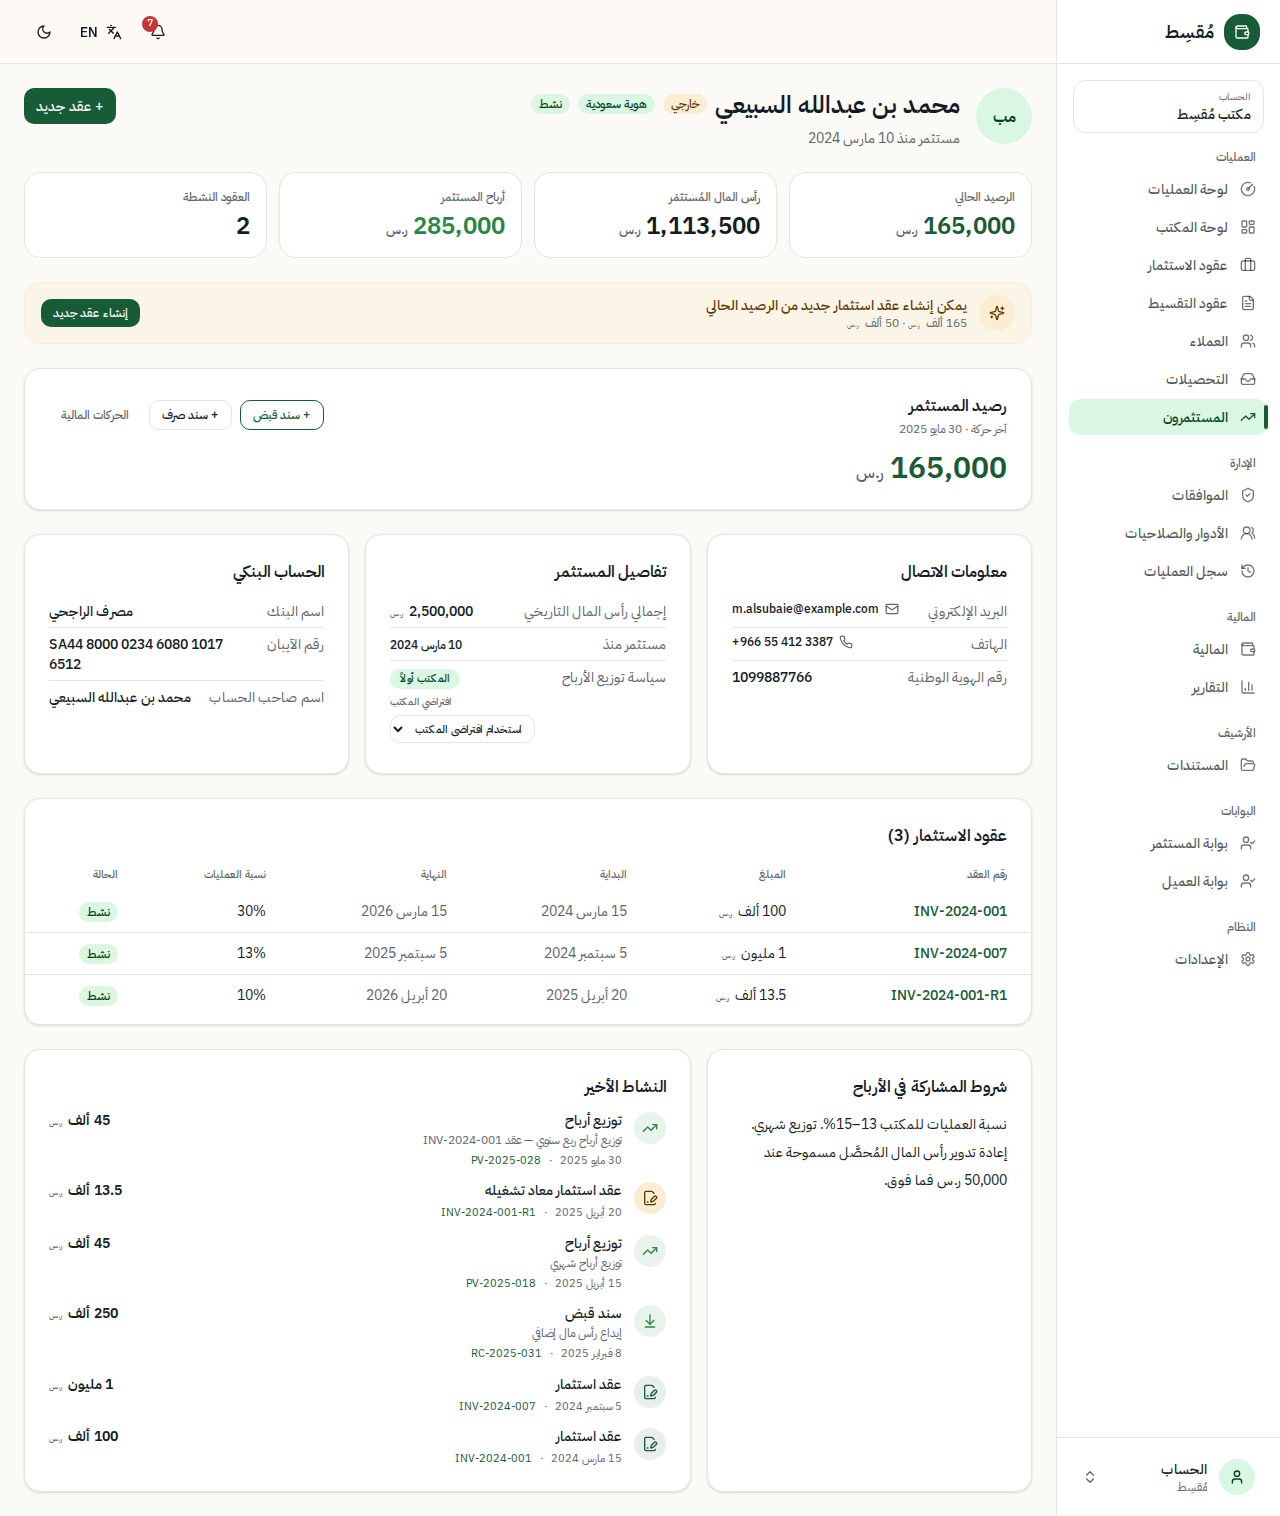
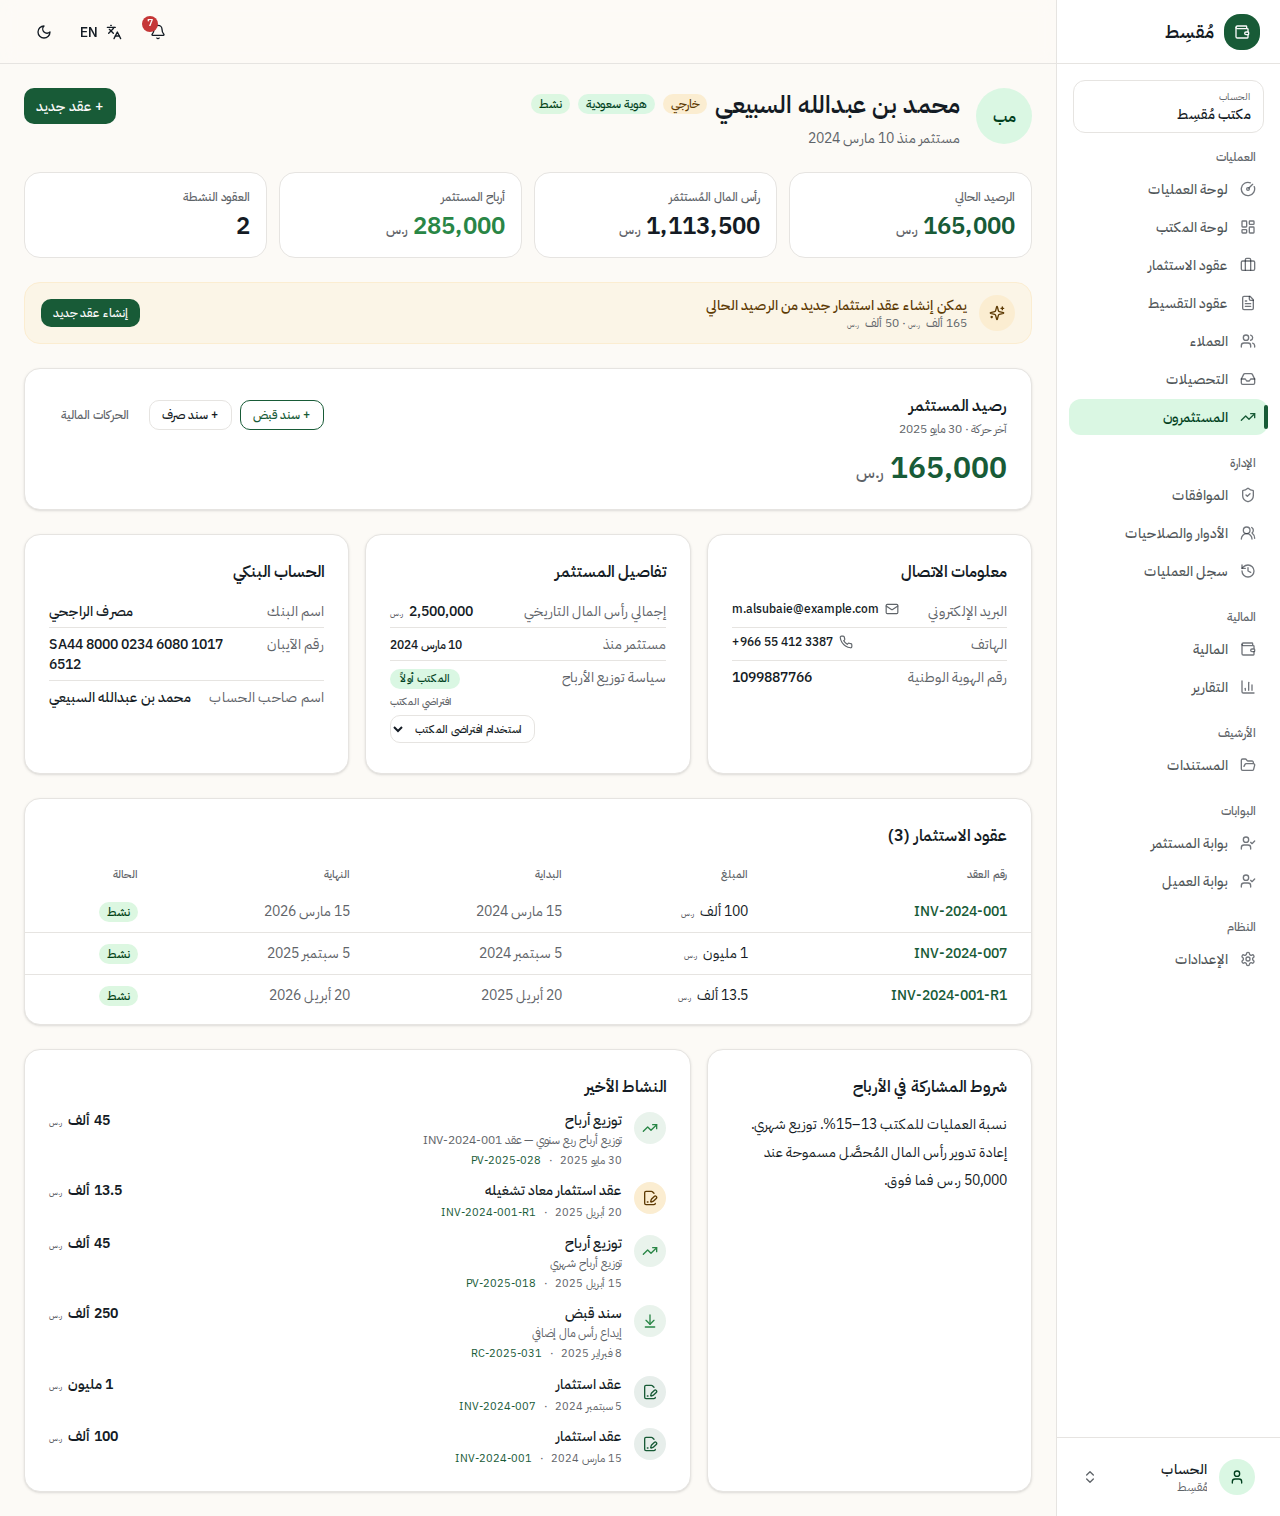
Sprint 11: confirm five business principles — remove remaining percentages
Per the final principles audit, removes every remaining "operation %"
column or row from the office UI. The percentage stays as a derived
computation inside the data model only.

Removed:
 - Investments list page: dropped the "نسبة العمليات" column entirely.
 - Contracts new page (review step): dropped the parent contract's
   operationPct DataRow.
 - Investor profile contracts table: dropped the operationPct column.

Confirmed (no code change needed — verified against the existing
implementation):

 1. The new investment contract form already asks for amounts only;
    no percentage input.
 2. The profit preview in that form already shows only "إجمالي الربح"
    — no per-side percentages.
 3. The split function in lib/mock/profit.ts already implements:
      Office First   — full installment to office until officeNeeded
                       is reached, then to investor.
      Investor First — full installment to investor until investorNeeded
                       is reached, then to office.
      Proportional   — the only policy that splits each collection.
    Threshold-crossing partial splits are the natural boundary behavior.
 4. The capital consumption in addInstallmentContract uses
    contract.cashPrice — not installmentPrice.
 5. UX uses simple amount-based labels exclusively:
      Expected Office Profit, Expected Investor Profit,
      Total Expected Profit, Office Share Recovered,
      Investor Share Recovered.

Screenshot 02 (investor profile) regenerated.
[…]

diff --git a/apps/web/src/app/(app)/investments/page.tsx b/apps/web/src/app/(app)/investments/page.tsx
@@ -111,7 +111,6 @@ function InvestmentsList() {
                   <th className="px-6 py-3 text-start font-medium">{inv.columns.amount}</th>
                   <th className="px-6 py-3 text-start font-medium">{inv.columns.start}</th>
                   <th className="px-6 py-3 text-start font-medium">{inv.columns.end}</th>
-                  <th className="px-6 py-3 text-start font-medium">{inv.columns.ops}</th>
                   <th className="px-6 py-3 text-start font-medium">{inv.columns.utilized}</th>
                   <th className="px-6 py-3 text-start font-medium">{inv.columns.remaining}</th>
                   <th className="px-6 py-3 text-start font-medium">{inv.columns.status}</th>
@@ -168,7 +167,6 @@ function InvestmentsList() {
                       <td className="num px-6 py-3 text-muted-foreground">
                         {formatDate(c.endDate, locale)}
                       </td>
-                      <td className="num px-6 py-3">{c.operationPct}%</td>
                       <td className="num px-6 py-3">
                         <span className="inline-flex items-center gap-2">
                           <Currency value={c.utilized} compact />

diff --git a/apps/web/src/app/(app)/investors/[id]/page.tsx b/apps/web/src/app/(app)/investors/[id]/page.tsx
@@ -448,9 +448,6 @@ export default function InvestorProfilePage({
                       {dict.investments.columns.end}
                     </th>
                     <th className="px-6 py-2 text-start font-medium">
-                      {dict.investments.columns.ops}
-                    </th>
-                    <th className="px-6 py-2 text-start font-medium">
                       {dict.investments.columns.status}
                     </th>
                   </tr>
@@ -475,7 +472,6 @@ export default function InvestorProfilePage({
                       <td className="num px-6 py-2.5 text-muted-foreground">
                         {formatDate(c.endDate, locale)}
                       </td>
-                      <td className="num px-6 py-2.5">{c.operationPct}%</td>
                       <td className="px-6 py-2.5">
                         <StatusPill
                           tone={

diff --git a/apps/web/src/app/(app)/contracts/new/page.tsx b/apps/web/src/app/(app)/contracts/new/page.tsx
@@ -420,10 +420,6 @@ export default function NewInstallmentContractPage() {
                       label={dict.investments.columns.remaining}
                       value={<Currency value={availableInChosen} />}
                     />
-                    <DataRow
-                      label={dict.investments.details.operationPct}
-                      value={<span className="num">{chosenInvContract.operationPct}%</span>}
-                    />
                   </DataRows>
                 </div>
               ) : null}
